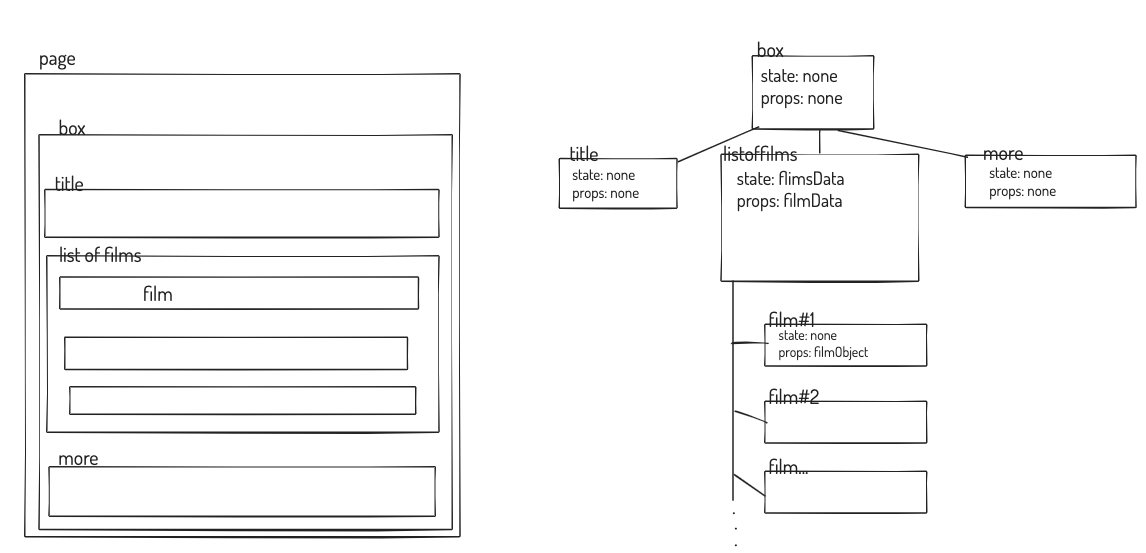
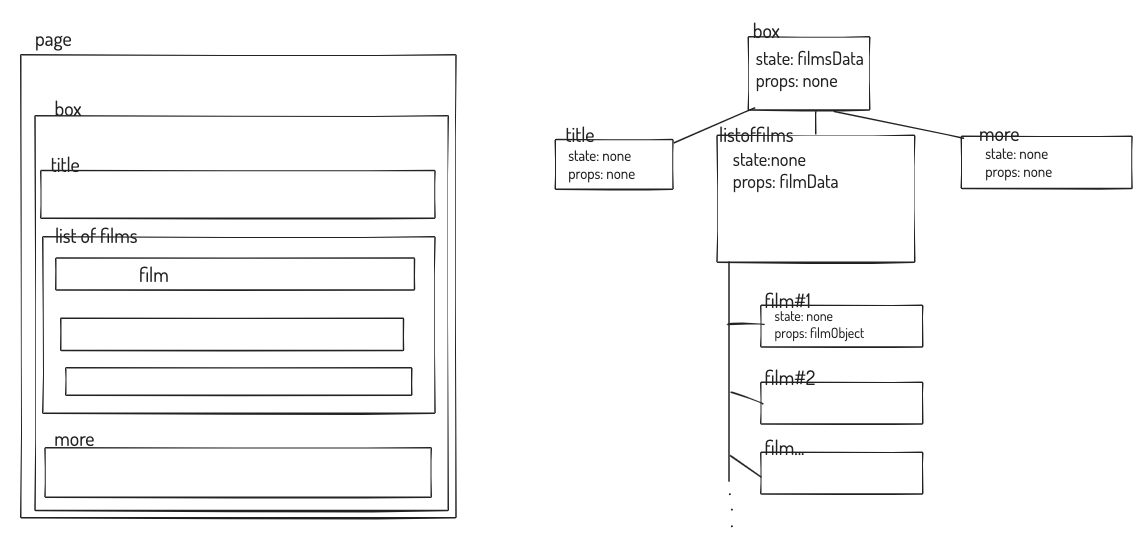
cookedbrain

diff --git a/src/containers/Box.js b/src/containers/Box.js
@@ -4,6 +4,39 @@ import ListOfFilms from './ListOfFilms'
 import More from '../components/More'
 
 export default class Box extends Component {
+
+    constructor(props){
+        super(props)
+        this.state = {
+            films: [
+                {
+                  id: 1,
+                  name: "Spider-Man: Into the Spider-Verse",
+                  url: "https://www.imdb.com/title/tt4633694/?ref_=rlm"
+                },
+                {
+                  id: 2,
+                  name: "Life Itself",
+                  url: "https://www.imdb.com/title/tt5989218/?ref_=rlm"
+                },
+                {
+                  id: 3,
+                  name: "Mary Queen of Scots",
+                  url: "https://www.imdb.com/title/tt2328900/?ref_=rlm"
+                },
+                {
+                  id: 4,
+                  name: "The Lego Movie 2: The Second Part", url: "https://www.imdb.com/title/tt3513498/?ref_=rlm"
+                },
+                {
+                  id: 5,
+                  name: "Captain Marvel",
+                  url: "https://www.imdb.com/title/tt4154664/?ref_=rlm"
+                }
+              ]
+        }
+        
+    }
     render(){
         
         return (
@@ -11,7 +44,7 @@ export default class Box extends Component {
             <Fragment>
 
             <Title></Title>
-            <ListOfFilms/>
+            <ListOfFilms films={this.state.films}/>
             <More/>
 
             </Fragment>

diff --git a/src/containers/ListOfFilms.js b/src/containers/ListOfFilms.js
@@ -1,18 +1,17 @@
-import React, { Component, Fragment } from 'react'
+import React, {Fragment } from 'react'
 import Film from '../components/Film'
 
-export default class ListOfFilms extends Component {
-    render(){
-        return (
-
+export default function ListOfFilms(props){
+    const filmNodes = props.films.map(film => {
+        return <Film key={film.id} url={film.url} title={film.name}>  </Film>
+    });
+    
+    return (
             <Fragment>
-            <div> LIST OF FILMS</div>
             <ul>
-            <Film> </Film>
-            <Film> </Film>
-            <Film> </Film>g
+            {filmNodes}
             </ul>
             </Fragment>
-        )
-    }
+    )
+    
 }

diff --git a/src/components/More.js b/src/components/More.js
@@ -1,7 +1,12 @@
 import React from 'react'
 
 export default function More() {
+const aStyle = {
+    colour: 'red',
+    backgroundcolour: 'red'
+}
+
     return (
-        <p> THE LINK TO MORE THINGS</p>
+        <a style={aStyle} href="https://www.imdb.com/calendar/?region=gb"> To view more upcoming releases</a>
     )
 }

diff --git a/src/components/Film.js b/src/components/Film.js
@@ -1,9 +1,9 @@
 import React from 'react'
 
-export default function Film() {
+export default function Film(props) {
     return (
         <li>
-            <p> props.title </p>
+            <a href={props.url} > {props.title} </a>
         </li>
     )
 }

diff --git a/src/components/Title.js b/src/components/Title.js
@@ -2,6 +2,6 @@ import React from 'react'
 
 export default function Title(){
     return (
-        <div>The TITLE</div>
+        <div>The TITLE is here</div>
     )
 }
